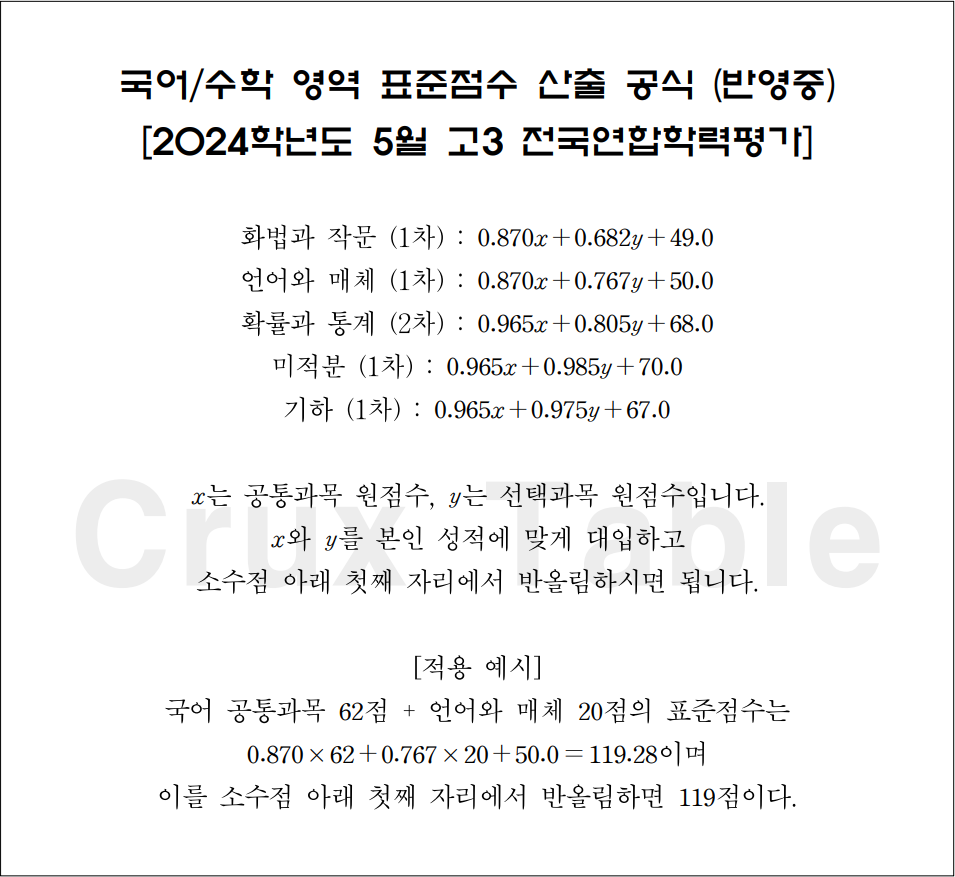
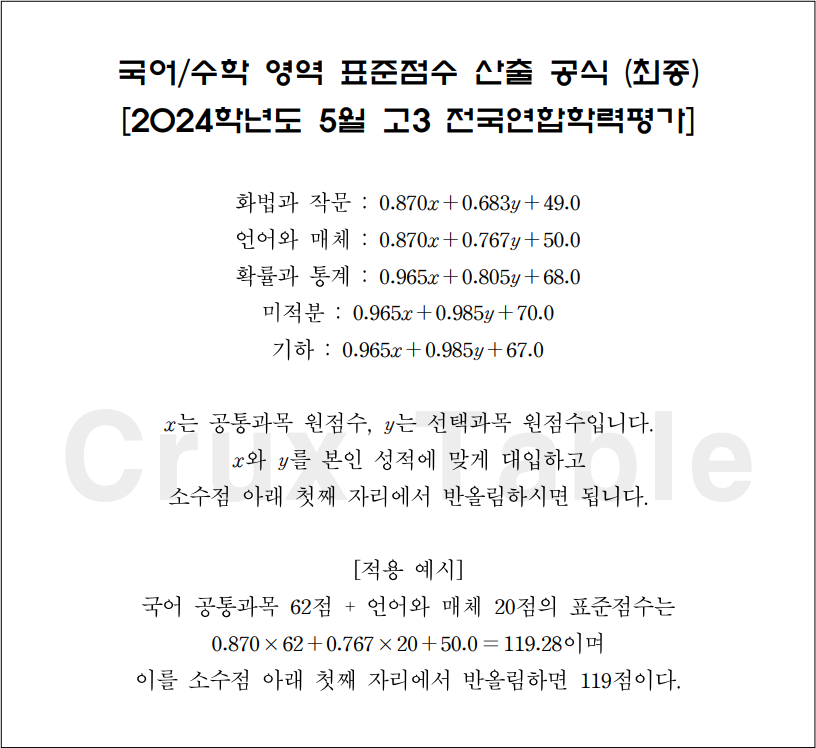
202405

diff --git a/js/data.js b/js/data.js
@@ -2006,7 +2006,7 @@ let data = {
     "202453rd": {
         "국어": [
             {
-                "화법과 작문": [0.87, 0.682, 49],
+                "화법과 작문": [0.87, 0.683, 49],
                 "언어와 매체": [0.87, 0.767, 50]
             },
             ["135", "99.77", "1"],
@@ -2098,9 +2098,9 @@ let data = {
         ],
         "수학": [
             {
-                "확률과 통계": [0.965, 0.8, 68],
+                "확률과 통계": [0.965, 0.805, 68],
                 "미적분": [0.965, 0.985, 70],
-                "기하": [0.965, 0.975, 67]
+                "기하": [0.965, 0.985, 67]
             },
             ["167", "99.98", "1"],
 ["164", "99.97", "1"],
